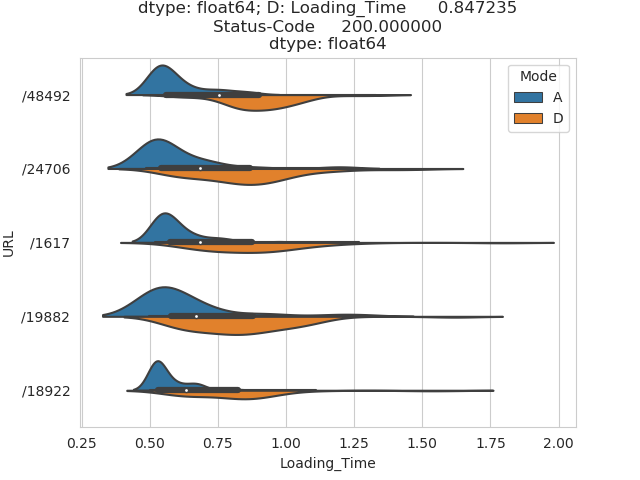
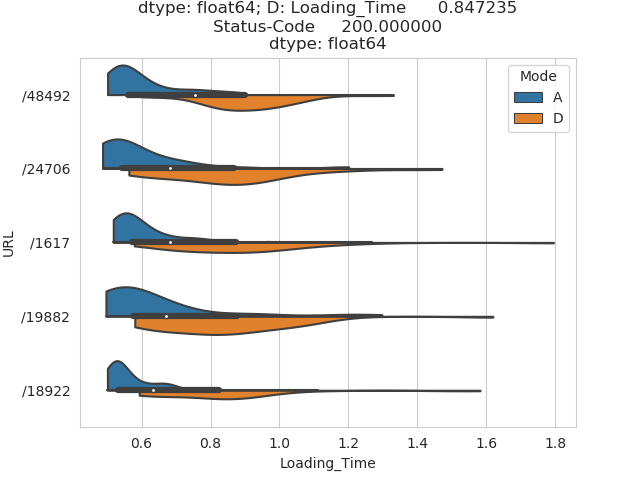
klööajkd

diff --git a/Auswertung2.py b/Auswertung2.py
@@ -25,15 +25,15 @@ if speicherart == 0:
     sns.violinplot(x="Loading_Time", y="URL", hue="Mode", data=df3, ax=ax[2])
     plt.savefig("superplot.png")
 elif speicherart == 1:
-    sns.violinplot(x="Loading_Time", y="URL", hue="Mode", data=df1, split=True)
+    sns.violinplot(x="Loading_Time", y="URL", hue="Mode", data=df1, cut=0, split=True)
     plt.title(f"A: {A_AVG}; D: {D_AVG}")
     plt.savefig("A&D.png")
     plt.close()
-    sns.violinplot(x="Loading_Time", y="URL", hue="Mode", data=df2, split=True)
+    sns.violinplot(x="Loading_Time", y="URL", hue="Mode", data=df2, cut=0, split=True)
     plt.title(f"B: {B_AVG}; E: {E_AVG}")
     plt.savefig("B&E.png")
     plt.close()
-    sns.violinplot(x="Loading_Time", y="URL", hue="Mode", data=df3, split=True)
+    sns.violinplot(x="Loading_Time", y="URL", hue="Mode", data=df3, cut=0, split=True)
     plt.title(f"C: {C_AVG}; F: {F_AVG}")
     plt.savefig("C&F.png")
 elif speicherart == 2:
